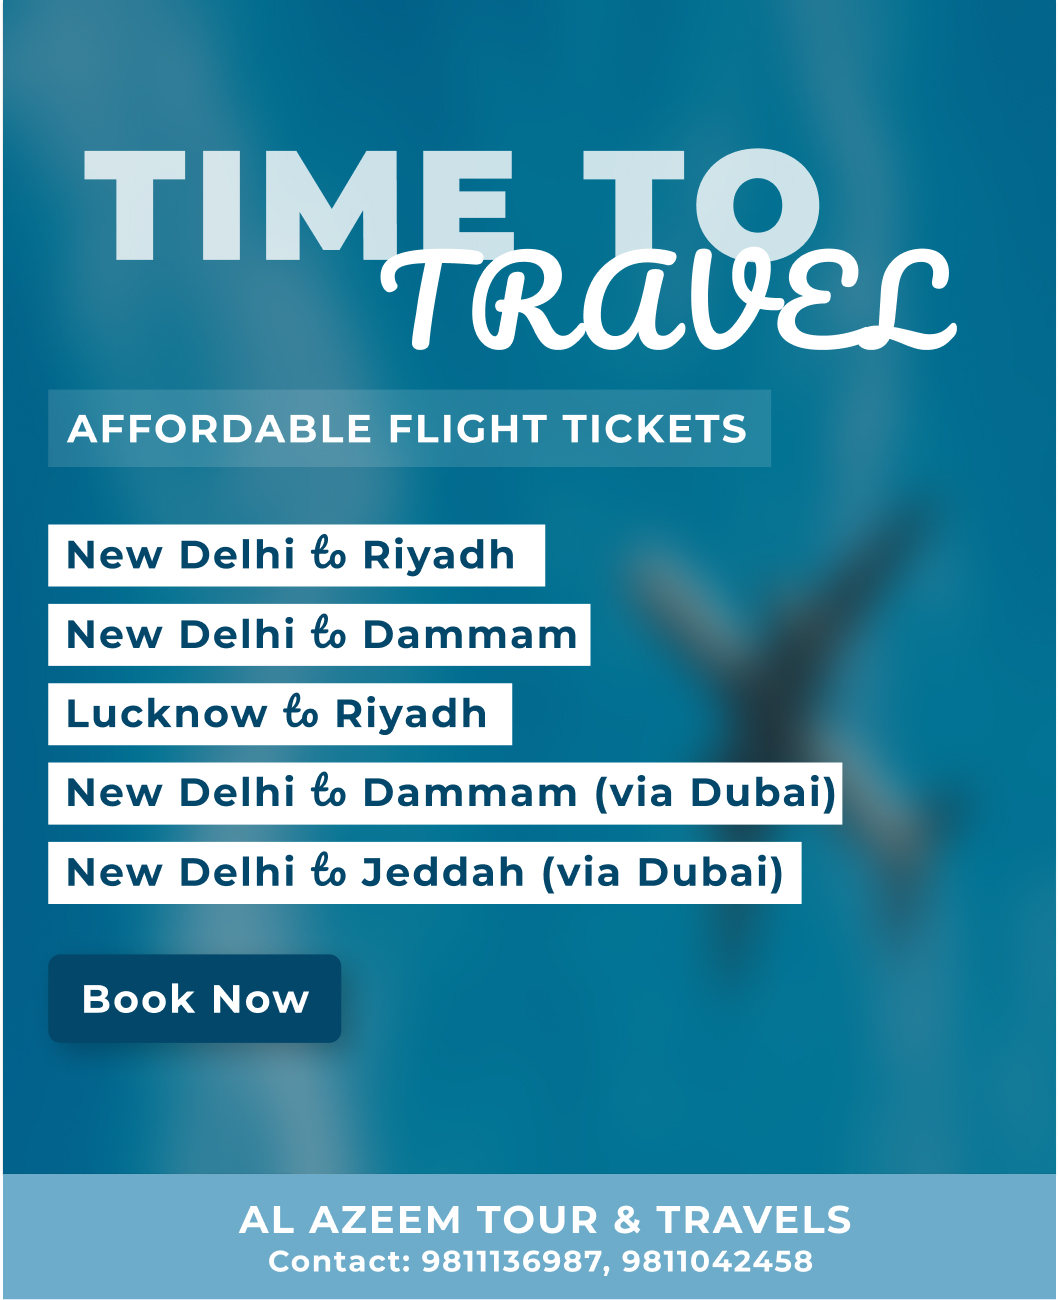
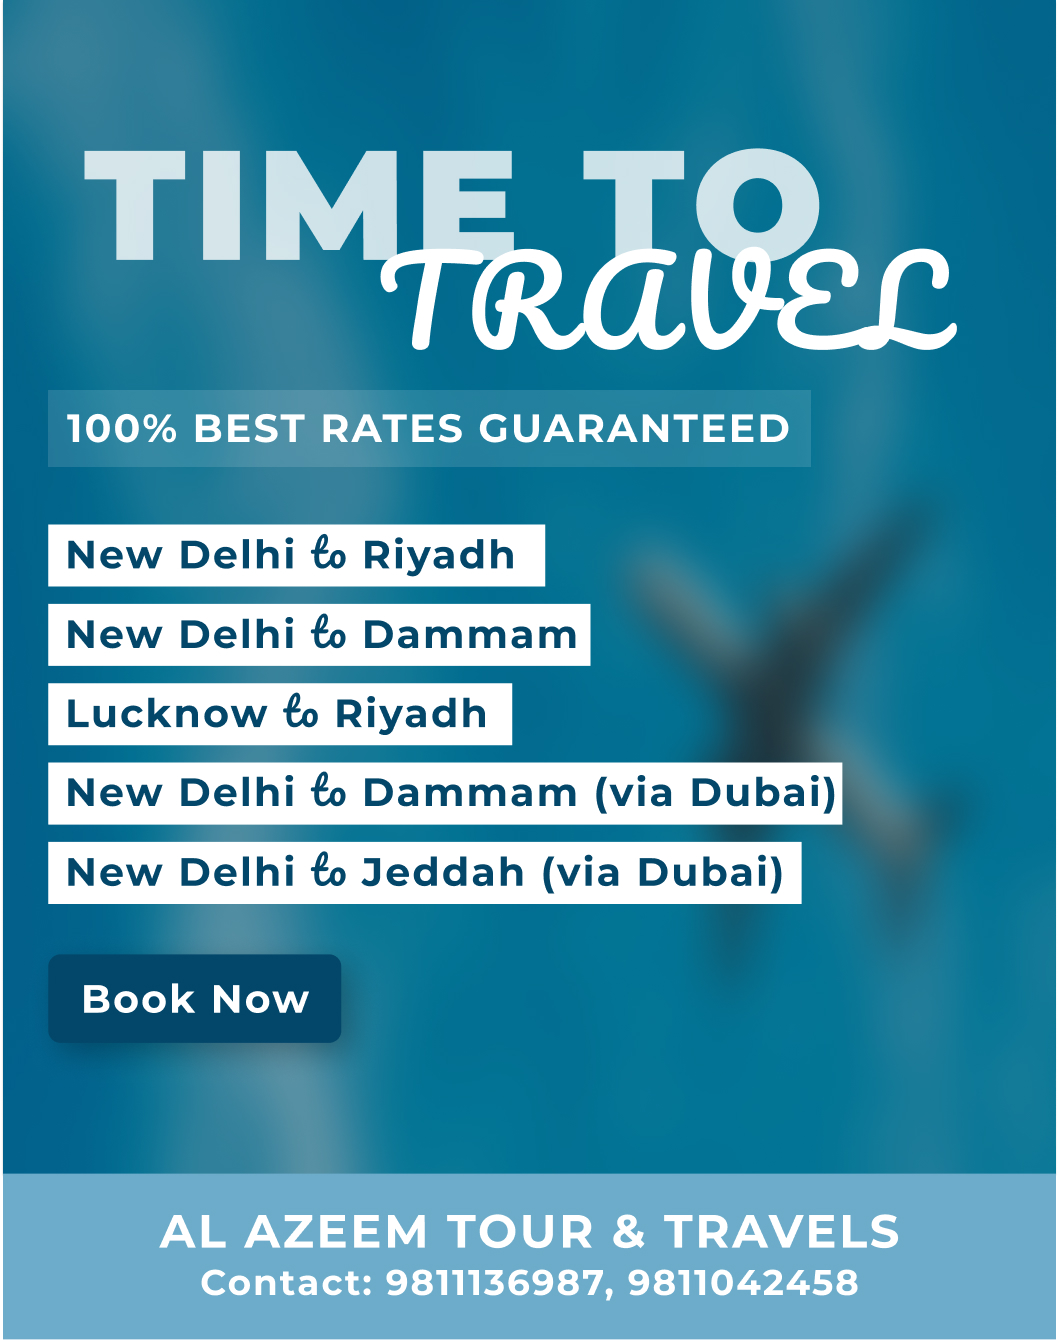
first commit

diff --git a/pages/flights.js b/pages/flights.js
@@ -64,7 +64,7 @@ const AboutUs = () => {
       <div className={`${styles.slide} ${styles.flight} bg-class flex-class`}>
             
             <div className={styles.content}>
-                <p className={styles.heading}>Affordable Flight Tickets</p>
+                <p className={styles.heading}>100% Best Rates guaranteed</p>
                 <p className={styles.text}>A Better Way To Travel.We are the one stop provider for all your travel needs and requirements</p>
             </div>
             <div className={styles.shade}></div>
@@ -83,30 +83,30 @@ const AboutUs = () => {
         <table className={`${style.p} ${style.table}`}>
             <tr className={style.tr}>
               <th className={style.th}>Airlines</th>
+              <th className={style.th}>Fare</th>
               <th className={style.th}>Sector</th>
               <th className={style.th}>Dates</th>
               <th className={style.th}>Dep. Time</th>
               <th className={style.th}>Arrival Time</th>
-              <th className={style.th}>Fair</th>
             </tr>
             
             <tr className={style.tr}>
             <td className={style.td}>VISTARA</td>
+            <td className={style.td}>Rs.15,500/-</td>
             <td className={style.td}>DEL DXB</td>
             <td className={style.td}>19/20 JAN</td>
             <td className={style.td}>21.45</td>
             <td className={style.td}>00.30</td>
-            <td className={style.td}>Rs.15,500/-</td>
 
             </tr>
 
             <tr className={style.tr}>
             <td className={style.td}>AIR INDIA EXPRESS </td>
+            <td className={style.td}>Rs.20,000/-</td>
             <td className={style.td}>VNS SHJ</td>
             <td className={style.td}>21/27 JAN</td>
             <td className={style.td}>16.15</td>
             <td className={style.td}>19.00</td>
-            <td className={style.td}>Rs.20,000/-</td>
 
             </tr>
 
@@ -124,7 +124,7 @@ const AboutUs = () => {
         <table className={`${style.p} ${style.table}`}>
             <tr className={style.tr}>
               <th className={style.th}>Airlines</th>
-              <th className={style.th}>Flight No.</th>
+              <th className={style.th}>Fare</th>
               <th className={style.th}>Dates</th>
               <th className={style.th}>Dep Time & Sector</th>
               <th className={style.th}>Arri Time & Sector</th>
@@ -133,7 +133,7 @@ const AboutUs = () => {
             
             <tr className={style.tr}>
             <td className={style.td}>GOAIR</td>
-            <td className={style.td}>G8-1521</td>
+            <td className={style.td}>-</td>
             <td className={style.td}>21 JAN</td>
             <td className={style.td}>DEL 22:50</td>
             <td className={style.td}>RUH 1:10</td>
@@ -143,7 +143,7 @@ const AboutUs = () => {
 
             <tr className={style.tr}>
               <td className={style.td}>GOAIR</td>
-              <td className={style.td}>G8-1521</td>
+              <td className={style.td}>-</td>
               <td className={style.td}>22 JAN</td>
               <td className={style.td}>DEL 22:50</td>
               <td className={style.td}>RUH 1:10</td>
@@ -152,7 +152,7 @@ const AboutUs = () => {
 
             <tr className={style.tr}>
               <td className={style.td}>GOAIR</td>
-              <td className={style.td}>G8-1521</td>
+              <td className={style.td}>-</td>
               <td className={style.td}>28 JAN</td>
               <td className={style.td}>DEL 22:50</td>
               <td className={style.td}>RUH 1:10</td>
@@ -161,7 +161,7 @@ const AboutUs = () => {
 
             <tr className={style.tr}>
               <td className={style.td}>GOAIR</td>
-              <td className={style.td}>G8-1521</td>
+              <td className={style.td}>-</td>
               <td className={style.td}>29 JAN</td>
               <td className={style.td}>DEL 22:50</td>
               <td className={style.td}>RUH 1:10</td>
@@ -184,7 +184,7 @@ const AboutUs = () => {
         <table className={`${style.p} ${style.table}`}>
             <tr className={style.tr}>
               <th className={style.th}>Airlines</th>
-              <th className={style.th}>Flight No.</th>
+              <th className={style.th}>Fare</th>
               <th className={style.th}>Dates</th>
               <th className={style.th}>Dep Time & Sector</th>
               <th className={style.th}>Arri Time & Sector</th>
@@ -193,7 +193,7 @@ const AboutUs = () => {
             
             <tr className={style.tr}>
             <td className={style.td}>GOAIR</td>
-            <td className={style.td}>G8-1521</td>
+            <td className={style.td}>-</td>
             <td className={style.td}>21 JAN</td>
             <td className={style.td}>DEL 22:50</td>
             <td className={style.td}>RUH 1:10</td>
@@ -203,7 +203,7 @@ const AboutUs = () => {
 
             <tr className={style.tr}>
               <td className={style.td}>GOAIR</td>
-              <td className={style.td}>G8-1533</td>
+              <td className={style.td}>-</td>
               <td className={style.td}>25 JAN</td>
               <td className={style.td}>DEL 21:30</td>
               <td className={style.td}>DMM 23:15</td>
@@ -223,7 +223,7 @@ const AboutUs = () => {
         <table className={`${style.p} ${style.table}`}>
             <tr className={style.tr}>
               <th className={style.th}>Airlines</th>
-              <th className={style.th}>Flight No.</th>
+              <th className={style.th}>Fare</th>
               <th className={style.th}>Dates</th>
               <th className={style.th}>Dep Time & Sector</th>
               <th className={style.th}>Arri Time & Sector</th>
@@ -232,7 +232,7 @@ const AboutUs = () => {
             
             <tr className={style.tr}>
             <td className={style.td}>GOAIR</td>
-            <td className={style.td}>G8-1522</td>
+            <td className={style.td}>-</td>
             <td className={style.td}>29 JAN</td>
             <td className={style.td}>LKO 9:25</td>
             <td className={style.td}>RUH 12:10</td>
@@ -242,7 +242,7 @@ const AboutUs = () => {
 
             <tr className={style.tr}>
               <td className={style.td}>GOAIR</td>
-              <td className={style.td}>G8-1522</td>
+              <td className={style.td}>-</td>
               <td className={style.td}>31 JAN</td>
               <td className={style.td}>LKO 9:25</td>
               <td className={style.td}>RUH 12:10</td>
@@ -262,7 +262,7 @@ const AboutUs = () => {
         <table className={`${style.p} ${style.table}`}>
             <tr className={style.tr}>
               <th className={style.th}>Airlines</th>
-              <th className={style.th}>Flight No.</th>
+              <th className={style.th}>Fare</th>
               <th className={style.th}>Dates</th>
               <th className={style.th}>Dep Time & Sector</th>
               <th className={style.th}>Arri Time & Sector</th>
@@ -271,7 +271,7 @@ const AboutUs = () => {
             
             <tr className={style.tr}>
             <td className={style.td}>FLYDUBAI</td>
-            <td className={style.td}>FZ-452</td>
+            <td className={style.td}>-</td>
             <td className={style.td}>21 JAN</td>
             <td className={style.td}>DEL 11:50</td>
             <td className={style.td}>DXB 14:15</td>
@@ -281,7 +281,7 @@ const AboutUs = () => {
 
             <tr className={style.tr}>
             <td className={style.td}>FLYDUBAI</td>
-            <td className={style.td}>FZ-8135</td>
+            <td className={style.td}>-</td>
             <td className={style.td}>21 JAN</td>
             <td className={style.td}>DXB 18:10</td>
             <td className={style.td}>DMM 18:30</td>
@@ -300,7 +300,7 @@ const AboutUs = () => {
         <table className={`${style.p} ${style.table}`}>
             <tr className={style.tr}>
               <th className={style.th}>Airlines</th>
-              <th className={style.th}>Flight No.</th>
+              <th className={style.th}>Fare</th>
               <th className={style.th}>Dates</th>
               <th className={style.th}>Dep Time & Sector</th>
               <th className={style.th}>Arri Time & Sector</th>
@@ -309,7 +309,7 @@ const AboutUs = () => {
             
             <tr className={style.tr}>
             <td className={style.td}>FLYDUBAI</td>
-            <td className={style.td}>FZ-452</td>
+            <td className={style.td}>-</td>
             <td className={style.td}>18 JAN</td>
             <td className={style.td}>DEL 11:50</td>
             <td className={style.td}>DXB 14:15</td>
@@ -319,7 +319,7 @@ const AboutUs = () => {
 
             <tr className={style.tr}>
             <td className={style.td}>FLYDUBAI</td>
-            <td className={style.td}>FZ-8261</td>
+            <td className={style.td}>-</td>
             <td className={style.td}>19 JAN</td>
             <td className={style.td}>DXB 8:05</td>
             <td className={style.td}>JED 10:15</td>
@@ -339,7 +339,7 @@ const AboutUs = () => {
         <table className={`${style.p} ${style.table}`}>
             <tr className={style.tr}>
               <th className={style.th}>Airlines</th>
-              <th className={style.th}>Flight No.</th>
+              <th className={style.th}>Fare</th>
               <th className={style.th}>Dates</th>
               <th className={style.th}>Dep Time & Sector</th>
               <th className={style.th}>Arri Time & Sector</th>
@@ -348,7 +348,7 @@ const AboutUs = () => {
             
             <tr className={style.tr}>
             <td className={style.td}>FLYDUBAI</td>
-            <td className={style.td}>FZ-452</td>
+            <td className={style.td}>-</td>
             <td className={style.td}>27 JAN</td>
             <td className={style.td}>DEL 11:50</td>
             <td className={style.td}>DXB 14:15</td>
@@ -358,7 +358,7 @@ const AboutUs = () => {
 
             <tr className={style.tr}>
             <td className={style.td}>FLYDUBAI</td>
-            <td className={style.td}>FZ-8261</td>
+            <td className={style.td}>-</td>
             <td className={style.td}>28 JAN</td>
             <td className={style.td}>DXB 8:05</td>
             <td className={style.td}>JED 10:15</td>
